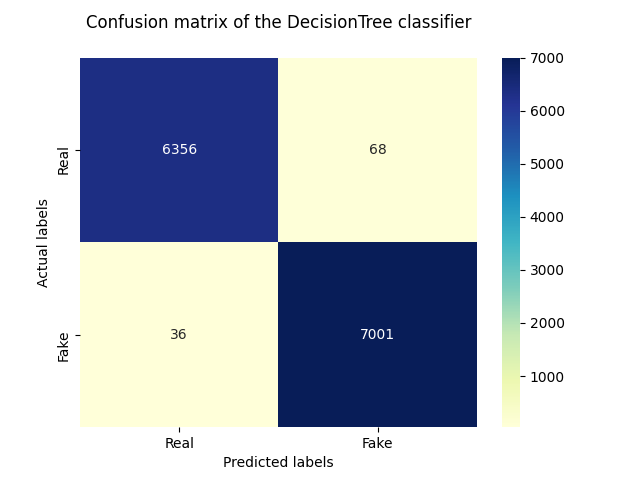
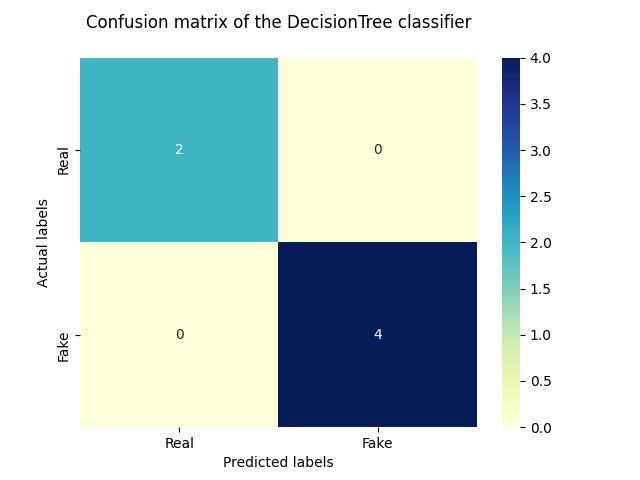
added results piecharst

diff --git a/model/support_vector_machine.py b/model/support_vector_machine.py
@@ -1,29 +1,58 @@
+import numpy as np
+from sklearn.metrics import accuracy_score
 from sklearn.svm import SVC
 
 import sys
 sys.path.insert(1, '../')
 
-import preprocess as preprocess
 import tools as tools
 
-def support_vector_machine_train(X,y):
+def support_vector_machine_train(X,y,gamma):
     print("Fitting data to SVC, this may take a while...")
-    svc = SVC(kernel='linear', random_state=0)
+    svc = SVC(kernel='rbf', gamma=gamma,random_state=0)
     svc.fit(X, y)
     return svc
 
 def support_vector_machine_predict(svc, X):
     return svc.predict(X)
 
-def test_run():
-    X_train, X_test, y_train, y_test, all_tokens = preprocess.preprocess_test()
+#  performs hyperparam search on SVC estimators, returns the best result
+def svc_hyperparam_search(X, y, C, G):
+    highest_accuracy = 0
+    best_estimator = None
+    best_hyperparams = ()
+    # find the best accuracy from the selection of hyperparams
+    for c in C:
+        for g in G:
+            svc = support_vector_machine_train(X,y,g)
+            y_pred = support_vector_machine_predict(svc,X)
 
-    while(input("Would you like to run the SVM Classifier? select y to run and any other key otherwise") == 'y'): 
-        print("\nTesting SVM Classifier ...\n")
+            a = accuracy_score(y,y_pred)*100
+            print("{:.1f}% training accuracy for C={:.1f} gamma={:.2f}".format(a, c, g))
 
-        model = support_vector_machine_train(X_train, y_train)
-        y_pred = support_vector_machine_predict(model, X_test)
+            if a > highest_accuracy:
+                highest_accuracy = a
+                best_estimator = svc
+                best_hyperparams = {"c": c, "gamma": g}
+    
+    return highest_accuracy, best_estimator, best_hyperparams
+            
 
-        tools.display_prediction_scores(y_test,y_pred)
-        tools.write_metrics_to_file(y_test,y_pred,"SVC")
-        tools.plot_confusion_matrix(y_test,y_pred,"SVC", True)
+
+def test_run(X_train, X_test, y_train, y_test):
+    print("\nTesting SVM Classifier ...\n")
+
+    C = np.logspace(1,4, num=4)
+    G = np.logspace(-2,1, num=4)
+
+    accuracy, estimator, hyperparams = svc_hyperparam_search(X_train, y_train, C, G)
+
+    tools.display_best_estimator(accuracy, "SVC", hyperparams)
+
+    y_pred = support_vector_machine_predict(estimator, X_test)
+
+    tools.plot_predicted_labels(y_test, y_pred, "SVC", True)
+
+    tools.display_prediction_scores(y_test,y_pred)
+    tools.write_metrics_to_file(y_test,y_pred,"SVC")
+    tools.plot_confusion_matrix(y_test,y_pred,"SVC", True)

diff --git a/preprocess.py b/preprocess.py
@@ -25,10 +25,6 @@ def parse_dataset(csv_file, label):
     # format date for each entry
     news["date"] = news["date"].apply(pd.to_datetime)
 
-    # TODO: is subject category not needed?
-    # print (news["subject"].unique())
-    # news.drop("subject", axis=1, inplace=news)
-
     # articles with no text should be cleaned from data
     news = news[news["text"] != ""] 
 
@@ -37,7 +33,6 @@ def parse_dataset(csv_file, label):
     news["label"] = label
 
     return news
-
 
 # extracts individual words from news article text
 def tokenize(news_data, name):
@@ -58,6 +53,12 @@ def tokenize(news_data, name):
         all_tokens.extend(words)
 
     return all_tokens, article_tokens_list
+
+def save_to_csv(X_train, X_test, y_train, y_test):
+    X_train.to_csv('training_data.csv')
+    X_test.to_csv('testing_data.csv')
+    y_train.to_csv('training_labels.csv')
+    y_test.to_csv('testing_labels.csv')
 
 # Split into training/testing data and preprocess 
 def split_and_preprocess(all_tokens, tokens_per_article, all_news):
@@ -93,26 +94,19 @@ def split_and_preprocess(all_tokens, tokens_per_article, all_news):
     y_train = pd.DataFrame(y_train, columns=["label"])
     y_test = pd.DataFrame(y_test, columns=["label"])
 
-
-    # TODO: remove? generate CSVs to view result
-    # X_train.to_csv('training_data.csv')
-    # X_test.to_csv('testing_data.csv')
-    # y_train.to_csv('training_labels.csv')
-    # y_test.to_csv('testing_labels.csv')
-
     return X_train, X_test, y_train, y_test
 
 def preprocess_test():
     print("\nTesting preprocessing of data...\n")
 
-    fake_news = parse_dataset("Fake.csv", "FAKE")
+    fake_news = parse_dataset("Fake_test.csv", "FAKE")
     print("\nPreview of Fake news Dataset")
     print(fake_news)
     print()
     
-    real_news = parse_dataset("True.csv", "REAL")
+    real_news = parse_dataset("True_test.csv", "REAL")
     print("\nPreview of Real news Dataset")
-    print(fake_news)
+    print(real_news)
     print()
 
     # join data
@@ -140,4 +134,5 @@ def preprocess_test():
     return  X_train, X_test, y_train, y_test, all_tokens
 
 if __name__ == "__main__":
-    preprocess_test()
+    X_train, X_test, y_train, y_test = preprocess_test()
+    # save_to_csv(X_train, X_test, y_train, y_test)

diff --git a/model/random_forest.py b/model/random_forest.py
@@ -8,7 +8,6 @@ from sklearn.model_selection import GridSearchCV
 import sys
 sys.path.insert(1, '../')
 
-import preprocess as preprocess
 import tools as tools
 
 def random_forest_train_at_depth(X,y,depth):
@@ -30,18 +29,18 @@ def random_forest_predict(models, X):
         predictions.append(m.predict(X))
     return predictions
 
-def test_run():
-    X_train, X_test, y_train, y_test, all_tokens = preprocess.preprocess_test()
+def test_run(X_train, X_test, y_train, y_test):
+    print("\nTesting Random Forest Classifier ...\n")
 
-    while(input("Would you like to run the Random Forest Classifier? select y to run and any other key otherwise") == 'y'):
-        print("\nTesting Random Forest Classifier ...\n")
+    model = random_forest_train(X_train, y_train, [50, 60, 70])
+    Y_pred = random_forest_predict(model, X_test)
 
-        model = random_forest_train(X_train, y_train, [50, 60, 70])
-        Y_pred = random_forest_predict(model, X_test)
+    # tools.plot_predicted_labels(y_test, y_pred, "NaiveBayes", True)
 
-        # TODO: should print result for all depths
-        for y_pred in Y_pred:
-            tools.display_prediction_scores(y_test,y_pred)
-            tools.write_metrics_to_file(y_test,y_pred,"RandomForest")
-            tools.plot_confusion_matrix(y_test,y_pred,"RandomForest", True)
-            tools.plot_feature_importances(X_train, model[0].best_estimator_, "RandomForest", True)
+    # # TODO: should print result for all depths
+    # for y_pred in Y_pred:
+        
+    #     tools.display_prediction_scores(y_test,y_pred)
+    #     tools.write_metrics_to_file(y_test,y_pred,"RandomForest")
+    #     tools.plot_confusion_matrix(y_test,y_pred,"RandomForest", True)
+    #     tools.plot_feature_importances(X_train, model[0].best_estimator_, "RandomForest", True)

diff --git a/model/decision_tree.py b/model/decision_tree.py
@@ -4,7 +4,6 @@ import sklearn.tree
 import sys
 sys.path.insert(1, '../')
 
-import preprocess as preprocess
 import tools as tools
 
 def decision_tree_train(X, y):
@@ -15,18 +14,16 @@ def decision_tree_train(X, y):
 def decision_tree_predict(model, X):
     return model.predict(X)
 
-def test_run():
-    X_train, X_test, y_train, y_test, all_tokens = preprocess.preprocess_test()
+def test_run(X_train, X_test, y_train, y_test):
+    print("\nTesting Decision Tree Classifier ...\n")
 
-    while(input("Would you like to run the Decision Tree Classifier? select y to run and any other key otherwise") == 'y'):
+    model = decision_tree_train(X_train, y_train)
+    y_pred = decision_tree_predict(model, X_test)
 
-        print("\nTesting Decision Tree Classifier ...\n")
+    tools.plot_predicted_labels(y_test, y_pred, "DecisionTree", True)
 
-        model = decision_tree_train(X_train, y_train)
-        y_pred = decision_tree_predict(model, X_test)
-
-        tools.display_prediction_scores(y_test,y_pred)
-        tools.write_metrics_to_file(y_test,y_pred,"DecisionTree")
-        tools.plot_confusion_matrix(y_test,y_pred,"DecisionTree", True)
-        tools.plot_feature_importances(X_train, model, "DecisionTree", True)
+    tools.display_prediction_scores(y_test,y_pred)
+    tools.write_metrics_to_file(y_test,y_pred,"DecisionTree")
+    tools.plot_confusion_matrix(y_test,y_pred,"DecisionTree", True)
+    tools.plot_feature_importances(X_train, model, "DecisionTree", True)
 

diff --git a/model/naive_bayesian_classifier.py b/model/naive_bayesian_classifier.py
@@ -5,7 +5,6 @@ from sklearn.naive_bayes import MultinomialNB
 import sys
 sys.path.insert(1, '../')
 
-import preprocess as preprocess
 import tools as tools
 
 def naive_bayesian_train(X,y):
@@ -33,15 +32,14 @@ def display_result(model, X_train):
     tokens['fake/true ratio'] = tokens.fake / tokens.true
     tokens.sort_values('fake/true ratio', ascending=False).head(10)
 
-def test_run():
-    X_train, X_test, y_train, y_test, all_tokens = preprocess.preprocess_test()
+def test_run(X_train, X_test, y_train, y_test):
+    print("\nTesting Naive Bayesian Classifier ...\n")
 
-    while(input("Would you like to run the Naive Bayesian Classifier ? select y to run and any other key otherwise") == 'y'):
-        print("\nTesting Naive Bayesian Classifier ...\n")
+    model = naive_bayesian_train(X_train, y_train)
+    y_pred = naive_bayesian_predict(model, X_test)
+    
+    tools.plot_predicted_labels(y_test, y_pred, "NaiveBayes", True)
 
-        model = naive_bayesian_train(X_train, y_train)
-        y_pred = naive_bayesian_predict(model, X_test)
-
-        tools.display_prediction_scores(y_test,y_pred)
-        tools.write_metrics_to_file(y_test,y_pred,"NaiveBayes")
-        tools.plot_confusion_matrix(y_test,y_pred,"NaiveBayes", True)
+    tools.display_prediction_scores(y_test,y_pred)
+    tools.write_metrics_to_file(y_test,y_pred,"NaiveBayes")
+    tools.plot_confusion_matrix(y_test,y_pred,"NaiveBayes", True)

diff --git a/model/logistic_regression.py b/model/logistic_regression.py
@@ -3,7 +3,6 @@ import sklearn
 import sys
 sys.path.insert(1, '../')
 
-import preprocess as preprocess
 import tools as tools
 
 def logistic_regression_train(X, y):
@@ -14,17 +13,16 @@ def logistic_regression_train(X, y):
 def logistic_regression_predict(model, X):
     return model.predict(X)
 
-def test_run():
-    X_train, X_test, y_train, y_test, all_tokens = preprocess.preprocess_test()
+def test_run(X_train, X_test, y_train, y_test):
+    print("\nTesting Logistic Regression Classifier ...\n")
 
-    while(input("Would you like to run the Logistic Regression Classifier? select y to run and any other key otherwise") == 'y'):
-        print("\nTesting Logistic Regression Classifier ...\n")
+    model = logistic_regression_train(X_train, y_train)
+    y_pred = logistic_regression_predict(model, X_test)
 
-        model = logistic_regression_train(X_train, y_train)
-        y_pred = logistic_regression_predict(model, X_test)
+    tools.plot_predicted_labels(y_test, y_pred, "LogisticRegression", True)
 
-        tools.display_prediction_scores(y_test,y_pred)
-        tools.write_metrics_to_file(y_test,y_pred,"LogisticRegression")
-        tools.plot_confusion_matrix(y_test,y_pred,"LogisticRegression", True)
+    tools.display_prediction_scores(y_test,y_pred)
+    tools.write_metrics_to_file(y_test,y_pred,"LogisticRegression")
+    tools.plot_confusion_matrix(y_test,y_pred,"LogisticRegression", True)
 
 

diff --git a/tools.py b/tools.py
@@ -14,6 +14,38 @@ from sklearn.metrics import precision_recall_fscore_support as score
 
 RESULTS_DIR = "./results/"
 
+def plot_labels(y):
+    labels = 'Real news','Fake news'
+    sizes = [len(y[y==0]), len(y[y==1])]
+    plt.pie(sizes, labels=labels, autopct='%1.1f%%', startangle=90)
+    plt.gca().axis('equal')
+
+def plot_predicted_labels(test, prediction, classifier_name, savefig=False):
+    plt.figure()
+    fig, ax = plt.subplots(nrows=1, ncols=2)
+
+    ax[0].set_title("True Labels")
+    plt.sca(ax[0])
+    plot_labels(test)
+        
+    plt.sca(ax[1])
+    ax[1].set_title("Predicted Labels")
+    plot_labels(prediction)
+
+    fig.set_size_inches((11,4))
+
+    if savefig:
+        file_name = '{}{}/piechart.png'.format(RESULTS_DIR,classifier_name)
+        print("Saving piechart of results for {} Classifier to file {}...".format(classifier_name, file_name))
+        plt.savefig(file_name)
+
+def display_best_estimator(accuracy, estimator, hyperparams):
+    print("Best {} estimator accuracy: {:.3f}%".format(estimator, accuracy))
+    print("Hyperparams:\n")
+
+    for param in hyperparams:
+        print("{}: {}\n".format(param, hyperparams[param]))
+
 def display_prediction_scores(test,prediction):
     accuracy = sklearn.metrics.accuracy_score(test,prediction)
     recall = sklearn.metrics.recall_score(test,prediction)

diff --git a/run_all_models_test.py b/run_all_models_test.py
@@ -4,9 +4,22 @@ import model.random_forest as RF
 import model.support_vector_machine as SVC
 import model.naive_bayesian_classifier as NB
 
+import preprocess as preprocess
+
 if __name__ == "__main__":
-    # LR.test_run()
-    DT.test_run()
-    # RF.test_run()
-    # SVC.test_run()
-    # NB.test_run()
+    X_train, X_test, y_train, y_test, all_tokens = preprocess.preprocess_test()
+    while(True):
+        inp = input("\nPlease select the classifier you wish to test. Enter q to exit\n0-LogisticRegression\n1-DecisionTree\n2-RandomForest\n3-SVC\n4-NaiveBayes ")
+        
+        if inp == '0':
+            LR.test_run(X_train, X_test, y_train, y_test)
+        elif inp == '1':
+            DT.test_run(X_train, X_test, y_train, y_test)
+        elif inp == '2':
+            RF.test_run(X_train, X_test, y_train, y_test)
+        elif inp == '3':
+            SVC.test_run(X_train, X_test, y_train, y_test)
+        elif inp == '4':
+            NB.test_run(X_train, X_test, y_train, y_test)
+        elif inp == 'q':
+            break
